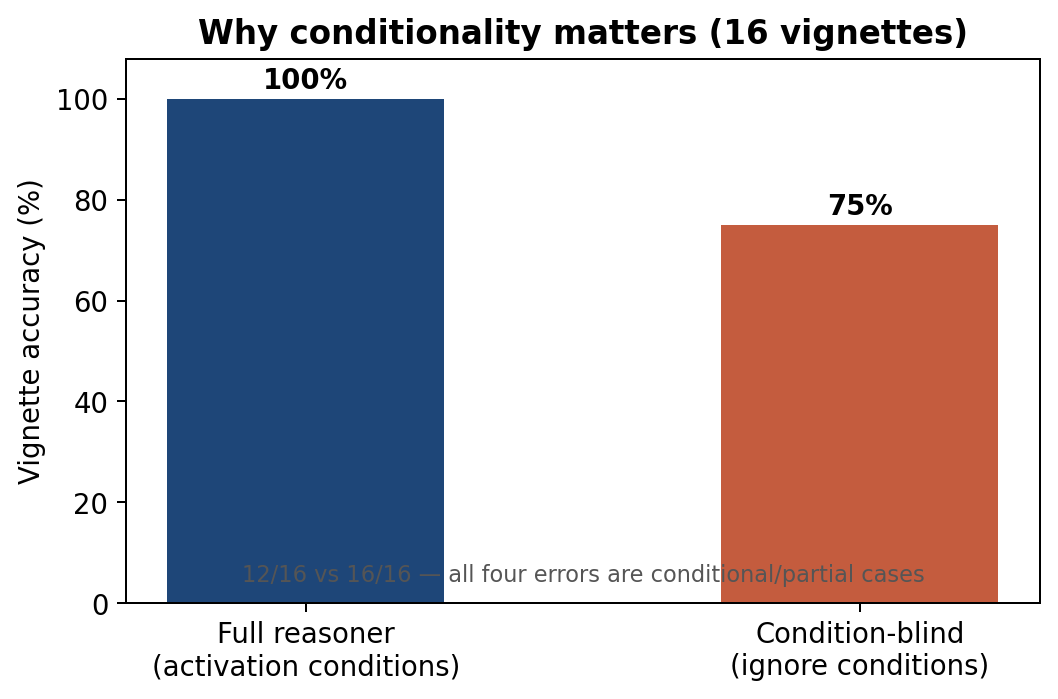
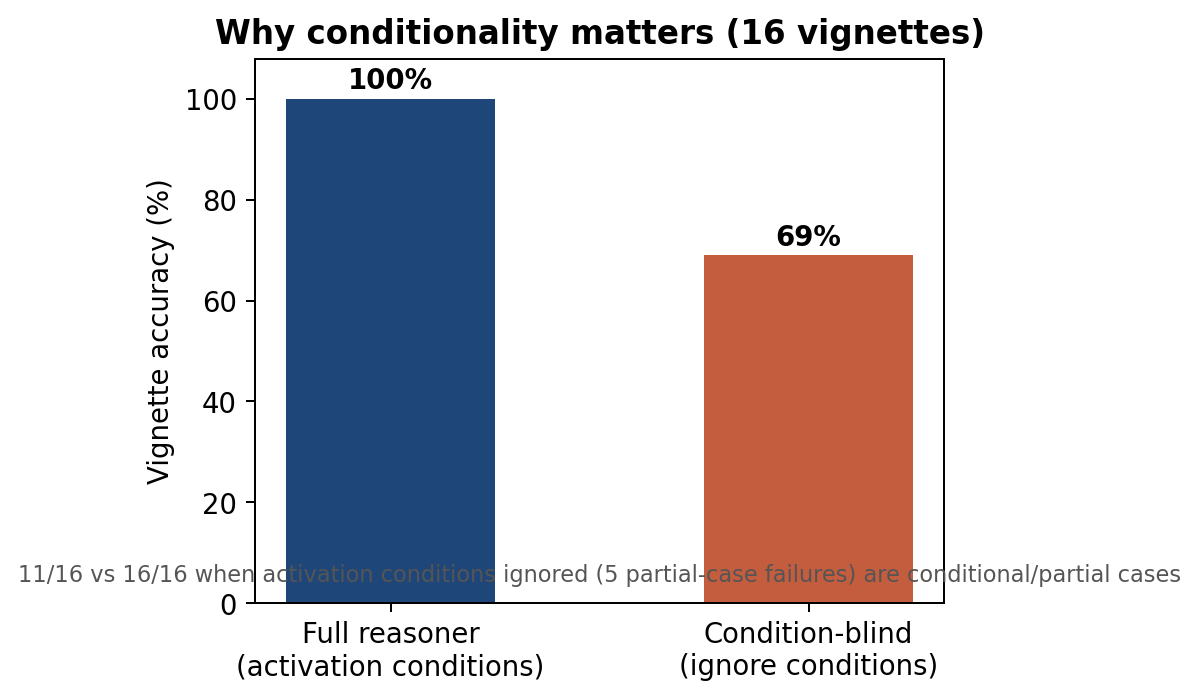
Add evaluation figures to PowerPoint and PPT placement guide
- Regenerate figures: 69% ablation, coverage inventory, vignette splits, extraction F1
- New STRENGTHENED EVALUATION slide with six-panel layout
- docs/PPT_Figures_Guide.md with exact numbers per slide

diff --git a/scripts/insert_presentation_figures.py b/scripts/insert_presentation_figures.py
@@ -1,10 +1,10 @@
 #!/usr/bin/env python3
-"""Insert evaluation and ontology figures into ADO_powerpoint_presentation.pptx."""
+"""Insert evaluation figures into ADO_powerpoint_presentation.pptx."""
 
 from pathlib import Path
 
 from pptx import Presentation
-from pptx.util import Inches
+from pptx.util import Inches, Pt
 
 ROOT = Path(__file__).resolve().parents[1]
 PPTX = ROOT / "ADO_powerpoint_presentation.pptx"
@@ -16,59 +16,72 @@ def insert_on_slide(slide, img_path: Path, left, top, width):
         slide.shapes.add_picture(str(img_path), left, top, width=width)
 
 
-def count_pictures(slide) -> int:
-    return sum(1 for sh in slide.shapes if sh.shape_type == 13)
-
-
-def enhance_slide_5(prs: Presentation) -> None:
-    """Ontology scope — class hierarchy backup / complement to live Protégé."""
-    slide = prs.slides[4]
-    if count_pictures(slide) == 0:
-        insert_on_slide(slide, FIG / "ontology_class_hierarchy.png", Inches(6.9), Inches(1.15), Inches(5.9))
-
-
-def enhance_slide_8(prs: Presentation) -> None:
-    slide = prs.slides[7]
-    if count_pictures(slide) == 0:
-        insert_on_slide(slide, FIG / "vignette_match_types.png", Inches(8.5), Inches(1.2), Inches(4.5))
-
-
-def enhance_slide_9(prs: Presentation) -> None:
-    slide = prs.slides[8]
-    if count_pictures(slide) < 2:
-        insert_on_slide(slide, FIG / "eval_overview.png", Inches(6.8), Inches(1.35), Inches(6.0))
-        insert_on_slide(slide, FIG / "ablation_conditions.png", Inches(6.8), Inches(4.05), Inches(6.0))
-
-
-def enhance_slide_10(prs: Presentation) -> None:
-    slide = prs.slides[9]
-    if count_pictures(slide) == 0:
-        insert_on_slide(slide, FIG / "conditional_p9_p10.png", Inches(7.2), Inches(1.5), Inches(5.8))
-
-
-def has_figures_slide(prs: Presentation) -> bool:
+def slide_has_title(prs, needle: str) -> bool:
     for s in prs.slides:
         for sh in s.shapes:
-            if sh.has_text_frame and "EVALUATION FIGURES" in sh.text_frame.text:
+            if sh.has_text_frame and needle in sh.text_frame.text:
                 return True
     return False
 
 
-def add_results_figure_slide(prs: Presentation) -> None:
+def enhance_slide_5(prs: Presentation) -> None:
+    slide = prs.slides[4]
+    insert_on_slide(slide, FIG / "ontology_class_hierarchy.png", Inches(6.9), Inches(1.15), Inches(5.9))
+
+
+def enhance_slide_8(prs: Presentation) -> None:
+    slide = prs.slides[7]
+    insert_on_slide(slide, FIG / "vignette_match_types.png", Inches(8.2), Inches(1.15), Inches(4.3))
+
+
+def enhance_slide_9(prs: Presentation) -> None:
+    slide = prs.slides[8]
+    insert_on_slide(slide, FIG / "eval_overview.png", Inches(6.7), Inches(1.2), Inches(6.1))
+    insert_on_slide(slide, FIG / "ablation_conditions.png", Inches(6.7), Inches(3.95), Inches(6.1))
+
+
+def enhance_slide_10(prs: Presentation) -> None:
+    slide = prs.slides[9]
+    insert_on_slide(slide, FIG / "conditional_p9_p10.png", Inches(7.0), Inches(1.45), Inches(5.9))
+
+
+def add_strengthened_eval_slide(prs: Presentation) -> None:
+    """One slide: coverage + ablation + vignette splits + extraction (for tomorrow)."""
+    if slide_has_title(prs, "STRENGTHENED EVALUATION"):
+        return
+    slide = prs.slides.add_slide(prs.slide_layouts[0])
+    tb = slide.shapes.add_textbox(Inches(0.4), Inches(0.25), Inches(12.5), Inches(0.55))
+    tb.text_frame.text = "STRENGTHENED EVALUATION — developmental validation (report / June 2026)"
+    p = tb.text_frame.paragraphs[0]
+    p.font.size = Pt(18)
+    p.font.bold = True
+
+    panels = [
+        (FIG / "vignette_splits.png", Inches(0.35), Inches(0.95), Inches(3.05)),
+        (FIG / "ablation_conditions.png", Inches(3.45), Inches(0.95), Inches(3.05)),
+        (FIG / "coverage_inventory.png", Inches(6.55), Inches(0.95), Inches(6.0)),
+        (FIG / "extraction_f1.png", Inches(0.35), Inches(4.05), Inches(3.05)),
+        (FIG / "track3_field_agreement.png", Inches(3.45), Inches(4.05), Inches(3.05)),
+        (FIG / "code_status_confusion.png", Inches(6.55), Inches(4.05), Inches(6.0)),
+    ]
+    for path, left, top, width in panels:
+        insert_on_slide(slide, path, left, top, width)
+
+    cap = slide.shapes.add_textbox(Inches(0.4), Inches(6.75), Inches(12.3), Inches(0.45))
+    cap.text_frame.text = (
+        "Developmental validation — not clinical trial. Team gold; single patient ontology. "
+        "Lead with ablation (69%) + coverage (47% fully representable), not only 100% vignettes."
+    )
+
+
+def add_track3_slide(prs: Presentation) -> None:
+    if slide_has_title(prs, "EVALUATION FIGURES — Track 3"):
+        return
     slide = prs.slides.add_slide(prs.slide_layouts[0])
     title_box = slide.shapes.add_textbox(Inches(0.5), Inches(0.35), Inches(12), Inches(0.6))
     title_box.text_frame.text = "EVALUATION FIGURES — Track 3 & code-status fidelity"
-    left = FIG / "track3_field_agreement.png"
-    right = FIG / "code_status_confusion.png"
-    if left.exists():
-        slide.shapes.add_picture(str(left), Inches(0.4), Inches(1.0), width=Inches(6.2))
-    if right.exists():
-        slide.shapes.add_picture(str(right), Inches(6.8), Inches(1.0), width=Inches(6.2))
-    cap = slide.shapes.add_textbox(Inches(0.5), Inches(6.6), Inches(12.3), Inches(0.5))
-    cap.text_frame.text = (
-        "12 real-world template profiles • Gold = POLST semantics • "
-        "Diagonal confusion matrix = agreement across all observed code-status categories"
-    )
+    insert_on_slide(slide, FIG / "track3_field_agreement.png", Inches(0.4), Inches(1.0), Inches(6.2))
+    insert_on_slide(slide, FIG / "code_status_confusion.png", Inches(6.8), Inches(1.0), Inches(6.2))
 
 
 def main():
@@ -79,8 +92,9 @@ def main():
     enhance_slide_8(prs)
     enhance_slide_9(prs)
     enhance_slide_10(prs)
-    if not has_figures_slide(prs):
-        add_results_figure_slide(prs)
+    add_strengthened_eval_slide(prs)
+    if not slide_has_title(prs, "EVALUATION FIGURES — Track 3"):
+        add_track3_slide(prs)
     prs.save(str(PPTX))
     print(f"Updated {PPTX} ({len(prs.slides)} slides)")
 

diff --git a/scripts/generate_presentation_figures.py b/scripts/generate_presentation_figures.py
@@ -42,7 +42,7 @@ def fig_eval_overview():
     ax.axhline(100, color="#cccccc", linestyle="--", linewidth=0.8)
     for bar, v in zip(bars, values):
         ax.text(bar.get_x() + bar.get_width() / 2, v + 2, f"{v}%", ha="center", fontweight="bold")
-    ax.text(0.02, 0.02, "16/16 vignettes • F1 from 12 real-template statements • 35/36 POLST-semantics fields",
+    ax.text(0.02, 0.02, "Dev 16/16 + hold-out 10/10 (single patient) • F1 n=12 real-template statements • 35/36 POLST-semantics fields",
             transform=ax.transAxes, fontsize=9, color="#555555")
     fig.tight_layout()
     fig.savefig(OUT / "eval_overview.png", dpi=180, bbox_inches="tight")
@@ -110,7 +110,7 @@ def fig_confusion_matrix():
 def fig_ablation():
     """Full reasoner vs condition-blind sensitivity."""
     labels = ["Full reasoner\n(activation conditions)", "Condition-blind\n(ignore conditions)"]
-    acc = [100, 75]
+    acc = [100, 69]
     fig, ax = plt.subplots(figsize=(6, 4))
     bars = ax.bar(labels, acc, color=[ADO_BLUE, ADO_ACCENT], width=0.5)
     ax.set_ylim(0, 108)
@@ -118,7 +118,7 @@ def fig_ablation():
     ax.set_title("Why conditionality matters (16 vignettes)")
     for bar, v in zip(bars, acc):
         ax.text(bar.get_x() + bar.get_width() / 2, v + 2, f"{v}%", ha="center", fontweight="bold")
-    ax.text(0.5, 0.04, "12/16 vs 16/16 — all four errors are conditional/partial cases",
+    ax.text(0.5, 0.04, "11/16 vs 16/16 when activation conditions ignored (5 partial-case failures) are conditional/partial cases",
             transform=ax.transAxes, ha="center", fontsize=9, color="#555555")
     fig.tight_layout()
     fig.savefig(OUT / "ablation_conditions.png", dpi=180, bbox_inches="tight")
@@ -163,6 +163,56 @@ def fig_conditional_flip():
     plt.close(fig)
 
 
+
+def fig_vignette_splits():
+    labels = ["Development\n(n=16)", "Held-out\n(n=10)"]
+    acc = [100, 100]
+    fig, ax = plt.subplots(figsize=(5.5, 4))
+    bars = ax.bar(labels, acc, color=[ADO_BLUE, ADO_LIGHT], width=0.45)
+    ax.set_ylim(0, 108)
+    ax.set_ylabel("Decision + match-type accuracy (%)")
+    ax.set_title("Track 1: vignette splits (same patient ontology)")
+    for bar, v in zip(bars, acc):
+        ax.text(bar.get_x() + bar.get_width() / 2, v + 2, f"{v}%", ha="center", fontweight="bold")
+    fig.tight_layout()
+    fig.savefig(OUT / "vignette_splits.png", dpi=180, bbox_inches="tight")
+    plt.close(fig)
+
+
+def fig_coverage():
+    labels = ["Fully\nrepresentable", "Vague\nonly", "Partial\nloss", "Who-decides\ngap", "OWL\ngap", "Out of\nscope"]
+    counts = [14, 3, 3, 3, 1, 6]
+    colors = [ADO_BLUE, ADO_LIGHT, "#7ba3d0", ADO_ACCENT, "#d4a574", "#aaaaaa"]
+    fig, ax = plt.subplots(figsize=(8, 4.2))
+    x = np.arange(len(labels))
+    bars = ax.bar(x, counts, color=colors, width=0.6)
+    ax.set_xticks(x)
+    ax.set_xticklabels(labels, fontsize=9)
+    ax.set_ylabel("Clauses (of 30)")
+    ax.set_title("Inventory coverage (30 clauses from 50-template inventory)")
+    for bar, c in zip(bars, counts):
+        ax.text(bar.get_x() + bar.get_width() / 2, bar.get_height() + 0.15, str(c), ha="center", fontweight="bold")
+    fig.tight_layout()
+    fig.savefig(OUT / "coverage_inventory.png", dpi=180, bbox_inches="tight")
+    plt.close(fig)
+
+
+def fig_extraction_metrics():
+    fig, ax = plt.subplots(figsize=(6, 3.8))
+    metrics = ["Precision", "Recall", "F1"]
+    vals = [0.94, 1.00, 0.97]
+    bars = ax.bar(metrics, vals, color=ADO_BLUE, width=0.5)
+    ax.set_ylim(0, 1.08)
+    ax.set_ylabel("Score")
+    ax.set_title("LLM extraction (n=12 template clauses)")
+    for bar, v in zip(bars, vals):
+        ax.text(bar.get_x() + bar.get_width() / 2, v + 0.02, f"{v:.2f}", ha="center", fontweight="bold")
+    ax.text(0.5, 0.02, "0 hallucinations on out-of-scope nutrition & antibiotics", transform=ax.transAxes, ha="center", fontsize=9, color="#555555")
+    fig.tight_layout()
+    fig.savefig(OUT / "extraction_f1.png", dpi=180, bbox_inches="tight")
+    plt.close(fig)
+
+
 def main():
     _style()
     OUT.mkdir(parents=True, exist_ok=True)
@@ -172,6 +222,9 @@ def main():
     fig_ablation()
     fig_vignette_outputs()
     fig_conditional_flip()
+    fig_vignette_splits()
+    fig_coverage()
+    fig_extraction_metrics()
     print(f"Wrote figures to {OUT}/")
 
 

diff --git a/docs/PPT_Figures_Guide.md b/docs/PPT_Figures_Guide.md
@@ -1,0 +1,95 @@
+# PowerPoint — exact figures & numbers to use
+
+Regenerate all PNGs and embed in the deck:
+
+```bash
+./scripts/build_presentation_assets.sh
+python scripts/generate_presentation_figures.py
+python scripts/insert_presentation_figures.py
+```
+
+Pull latest: `git pull origin main`
+
+---
+
+## Slide-by-slide map (13 core + 2 appendix slides)
+
+| Slide # | Title (approx.) | Figure file(s) | Exact text to say / show |
+|---------|-----------------|----------------|---------------------------|
+| **5** | Ontology scope | `ontology_class_hierarchy.png` (right) | 67 classes, 22 properties, 21 interventions |
+| **8** | Study design | `vignette_match_types.png` (right, optional) | 5 evaluation strands; developmental validation |
+| **9** | Quantitative results | `eval_overview.png` + `ablation_conditions.png` (right) | See headline table below |
+| **10** | Conditional example | `conditional_p9_p10.png` (right) | P9 vs P10: DNR ↔ Full code |
+| **15** | **STRENGTHENED EVALUATION** (new) | 6-panel slide | **Use this as your main results slide for tomorrow** |
+| **16** | Track 3 detail (optional) | `track3_field_agreement.png` + `code_status_confusion.png` | 35/36 fields; diagonal confusion matrix |
+
+**Tip:** Drag slide **STRENGTHENED EVALUATION** to position **10** (right after slide 9). Hide or shorten old slide 9 bullets if redundant.
+
+---
+
+## Headline numbers (paste on slides or speaker notes)
+
+### Track 1 — Vignettes
+| Metric | Value |
+|--------|--------|
+| Development set | **16/16** decision & match-type |
+| Held-out set (frozen gold) | **10/10** |
+| **Ablation** (ignore activation conditions) | **11/16 (69%)** |
+| Caveat | Single patient (Jane Doe); team gold |
+
+### Track 2 — LLM extraction
+| Metric | Value |
+|--------|--------|
+| Precision / Recall / F1 | **0.94 / 1.00 / 0.97** |
+| Out-of-scope hallucinations | **0** (nutrition, antibiotics) |
+| Inter-annotator κ (protocol) | **0.88** intervention, **0.74** negation |
+
+### Track 3 — Code status / POLST
+| Metric | Value |
+|--------|--------|
+| Field agreement | **35/36 (97%)** |
+| Code status | 12/12 |
+| POLST A | 12/12 |
+| POLST B | 11/12 |
+| Exact profile | 11/12 |
+| Principled divergence | **P5** — Not specified vs Full Treatment |
+
+### Track 4 — Coverage (30 inventory clauses)
+| Label | Count |
+|--------|-------|
+| Fully representable | **14 (47%)** |
+| Vague only | 3 |
+| Partial loss | 3 |
+| Who-decides gap | 3 |
+| OWL gap | 1 |
+| Out of scope | 6 |
+
+---
+
+## Figure catalog (`docs/presentation_figures/`)
+
+| File | Use |
+|------|-----|
+| `eval_overview.png` | Slide 9 — 4 headline bars (100/100/97/97) |
+| `ablation_conditions.png` | Slide 9 or 15 — **100% vs 69%** |
+| `vignette_splits.png` | Slide 15 — dev vs hold-out |
+| `coverage_inventory.png` | Slide 15 — **most important honesty slide** |
+| `extraction_f1.png` | Slide 15 or slide 7 — F1 bar chart |
+| `track3_field_agreement.png` | Slide 15 or 16 — 12/12, 12/12, 11/12, 11/12 |
+| `code_status_confusion.png` | Slide 16 — confusion matrix |
+| `conditional_p9_p10.png` | Slide 10 — clinical “aha” |
+| `vignette_match_types.png` | Slide 8 — pie of match types |
+| `ontology_class_hierarchy.png` | Slide 5 — Protégé backup |
+
+---
+
+## One-line framing (recommended opening for results)
+
+> “We report **developmental validation**: perfect scores on small curated vignettes, but the meaningful findings are **ablation to 69% without conditions**, **47% full coverage** on real template language, and a **principled POLST disagreement** on profile P5.”
+
+---
+
+## Do NOT claim
+- Clinical trial / bedside validation
+- Multi-patient generalization
+- Legal directive status